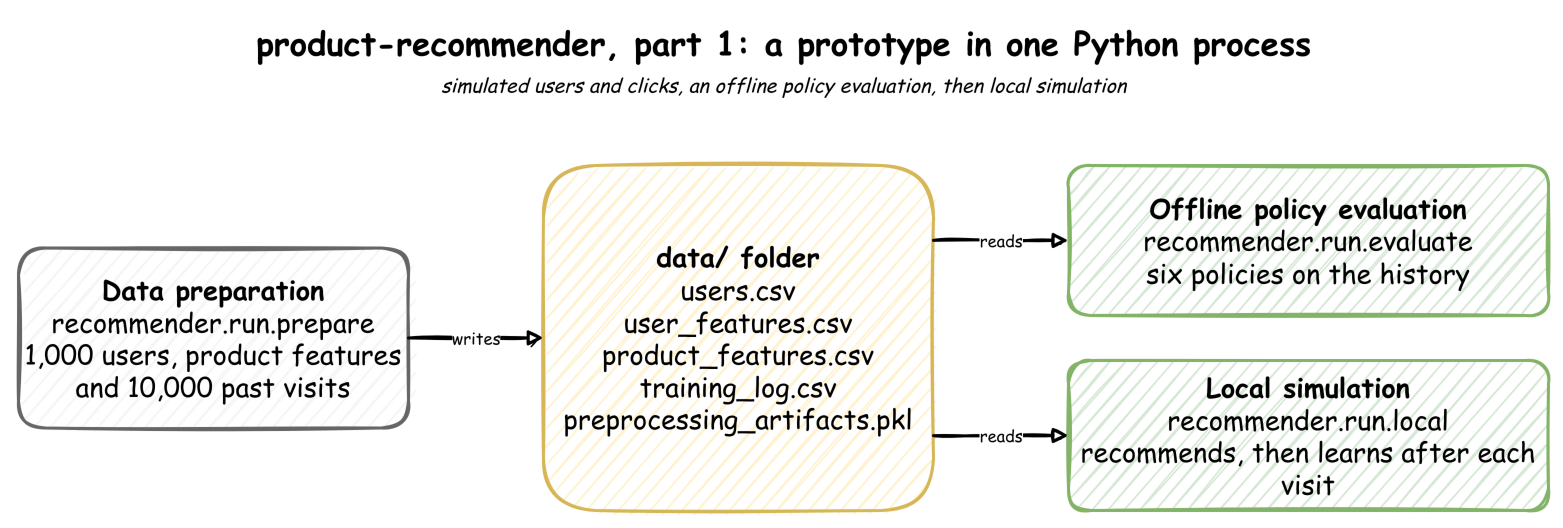
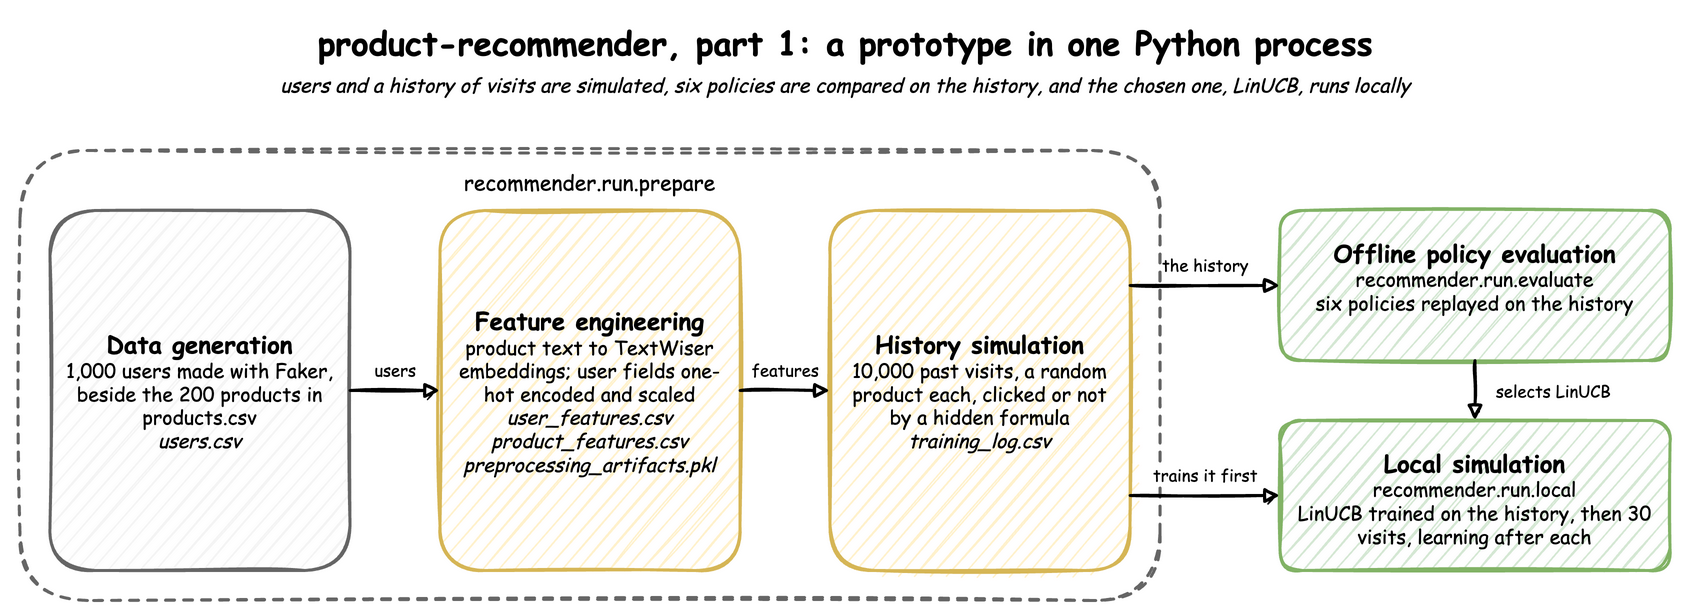
Update the product recommender diagrams in both posts
The new diagrams show feature engineering and LinUCB's selection in part 1, and the history read before live events in part 2.

diff --git a/content/blog/2026-02-23-productionize-recommender-with-eda/index.md b/content/blog/2026-02-23-productionize-recommender-with-eda/index.md
@@ -44,7 +44,7 @@ To move from prototype to production, we split the application into two distinct
 > 
 > The source code for this post is available in the **product-recommender** folder of the [benchtop](https://github.com/jaehyeon-kim/benchtop) GitHub repository. It is one of the [Benchtop](/blog/2026-09-30-introducing-benchtop/) projects, which run locally from a fresh clone.  
 
-![The live client sends feedback to Kafka, the Flink job trains the models from it and from the history in SeaweedFS, and writes them to Valkey for the client to read](part-2.png#center "Architecture")
+![The Flink job trains the models on the history in SeaweedFS first, then on the feedback the live client sends to Kafka, and writes them to Valkey for the client to read](part-2.png#center "Architecture")
 
 ## Flink Application Design
 

diff --git a/content/blog/2026-01-29-prototype-recommender-with-python/index.md b/content/blog/2026-01-29-prototype-recommender-with-python/index.md
@@ -47,7 +47,7 @@ CMAB performs well in **data streaming environments**. Integrated with platforms
 
 In this series, **Part 1** (*this post*) builds a complete **Python prototype** to validate the algorithm and simulate user behavior. [**Part 2**](/blog/2026-02-23-productionize-recommender-with-eda/) will scale this to a distributed, event-driven architecture.
 
-![Data preparation writes the data folder, which the offline policy evaluation and the local simulation read](part-1.png#center "Architecture")
+![Data generation, feature engineering and history simulation build the history; the offline policy evaluation selects LinUCB, which the local simulation trains on the history and then runs](part-1.png#center "Architecture")
 
 ## Tech Stack
 
